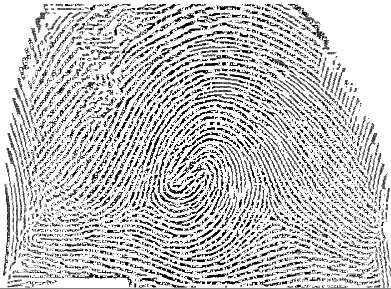
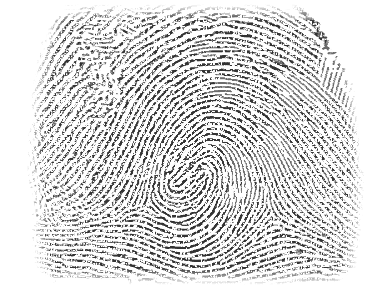
adiciona fade crop

diff --git a/trabalho.py b/trabalho.py
@@ -164,6 +164,47 @@ def detectPolyn(img, N):
     pol = np.polyfit(vech, -1*(vecw)+H,N)
     return np.polyval(pol, vech)
 
+def fadeCrop(img):
+    grau = 2
+    fade = 6
+
+    h, w = img.shape
+    x = np.array([i for i in range(0, 501, 50)])
+    y = np.array([100, 80, 60, 50, 50, 50, 50, 50, 50, 50, 50])
+    p = np.polyfit(x, y, grau)
+    polinomio = np.polyval(p, np.array([[i for i in range(0, h+1)]]))
+    polinomio = polinomio[0]
+    somaFade = np.flip(np.array([i for i in range(0, 256, fade)]), 0)
+    tamSomaFade = len(somaFade)
+
+    cropped = np.ones(shape=img.shape) * 255
+    for i in range(0, h):
+        for j in range(0, w):
+            if ((j > polinomio[ i ]) and (j < (w - polinomio[ i ]))):
+                cropped[i, j] = img[i, j]
+                if (math.ceil(j - polinomio[ i ]) <= tamSomaFade):
+                    cropped[i, j] += somaFade[math.ceil(j - polinomio[ i ]) -1]
+                if (math.ceil((w - polinomio[ i ]) - j) > 0 and math.ceil((w - polinomio[i]) - j) <= tamSomaFade):
+                    cropped[i, j] += somaFade[math.ceil((w - polinomio[i]) - j) -1]
+            if(cropped[i, j] > 255):
+                cropped[i, j] = 255
+
+    for j in range(0, w):
+        for i in range(0, tamSomaFade):
+            cropped[i, j] += somaFade[i]
+            if(cropped[i, j] > 255):
+                cropped[i, j] = 255
+
+    somaFade = np.flip(somaFade, 0)
+
+    for j in range(0, w):
+        for i in range(h - tamSomaFade +1, h):
+            cropped[i, j] += somaFade[i - h + tamSomaFade]
+            if(cropped[i, j] > 255):
+                cropped[i, j] = 255
+
+    return np.uint8(cropped)
+
 def scoreImages(imgsPath):
     print("Cheguei aqui")
 
@@ -180,16 +221,12 @@ def tranformFingerprint():
     imgDistortion = np.uint8(geomDistortion(cropImg, 5) * 255)
     thresholdLowImg, thresholdHighImg = applyTreshHold(imgDistortion, 80)
     bubbledImg = applyRandomPatherns(thresholdLowImg)
-
-    # result = customSum(bubbledImg, thresholdHighImg)
-    result = cv2.addWeighted(bubbledImg, 0.9, thresholdHighImg, 0.2, 0)
-    saveImgsTemp([bubbledImg, thresholdHighImg, result])
+    overlayImg = cv2.addWeighted(bubbledImg, 0.9, thresholdHighImg, 0.2, 0)
+    result = fadeCrop(overlayImg)
+    saveImgsTemp([result])
     # displayImg(cv2.resize(bubbledImg, (int(width/2), int(height/2))))
 
 def main():
     tranformFingerprint()
-    # eli = np.zeros(shape=(512, 512))
-    # cv2.ellipse(eli,(256,256),(50,30),0,0,360,255,4)
-    # displayImg(eli)
 
 main()
